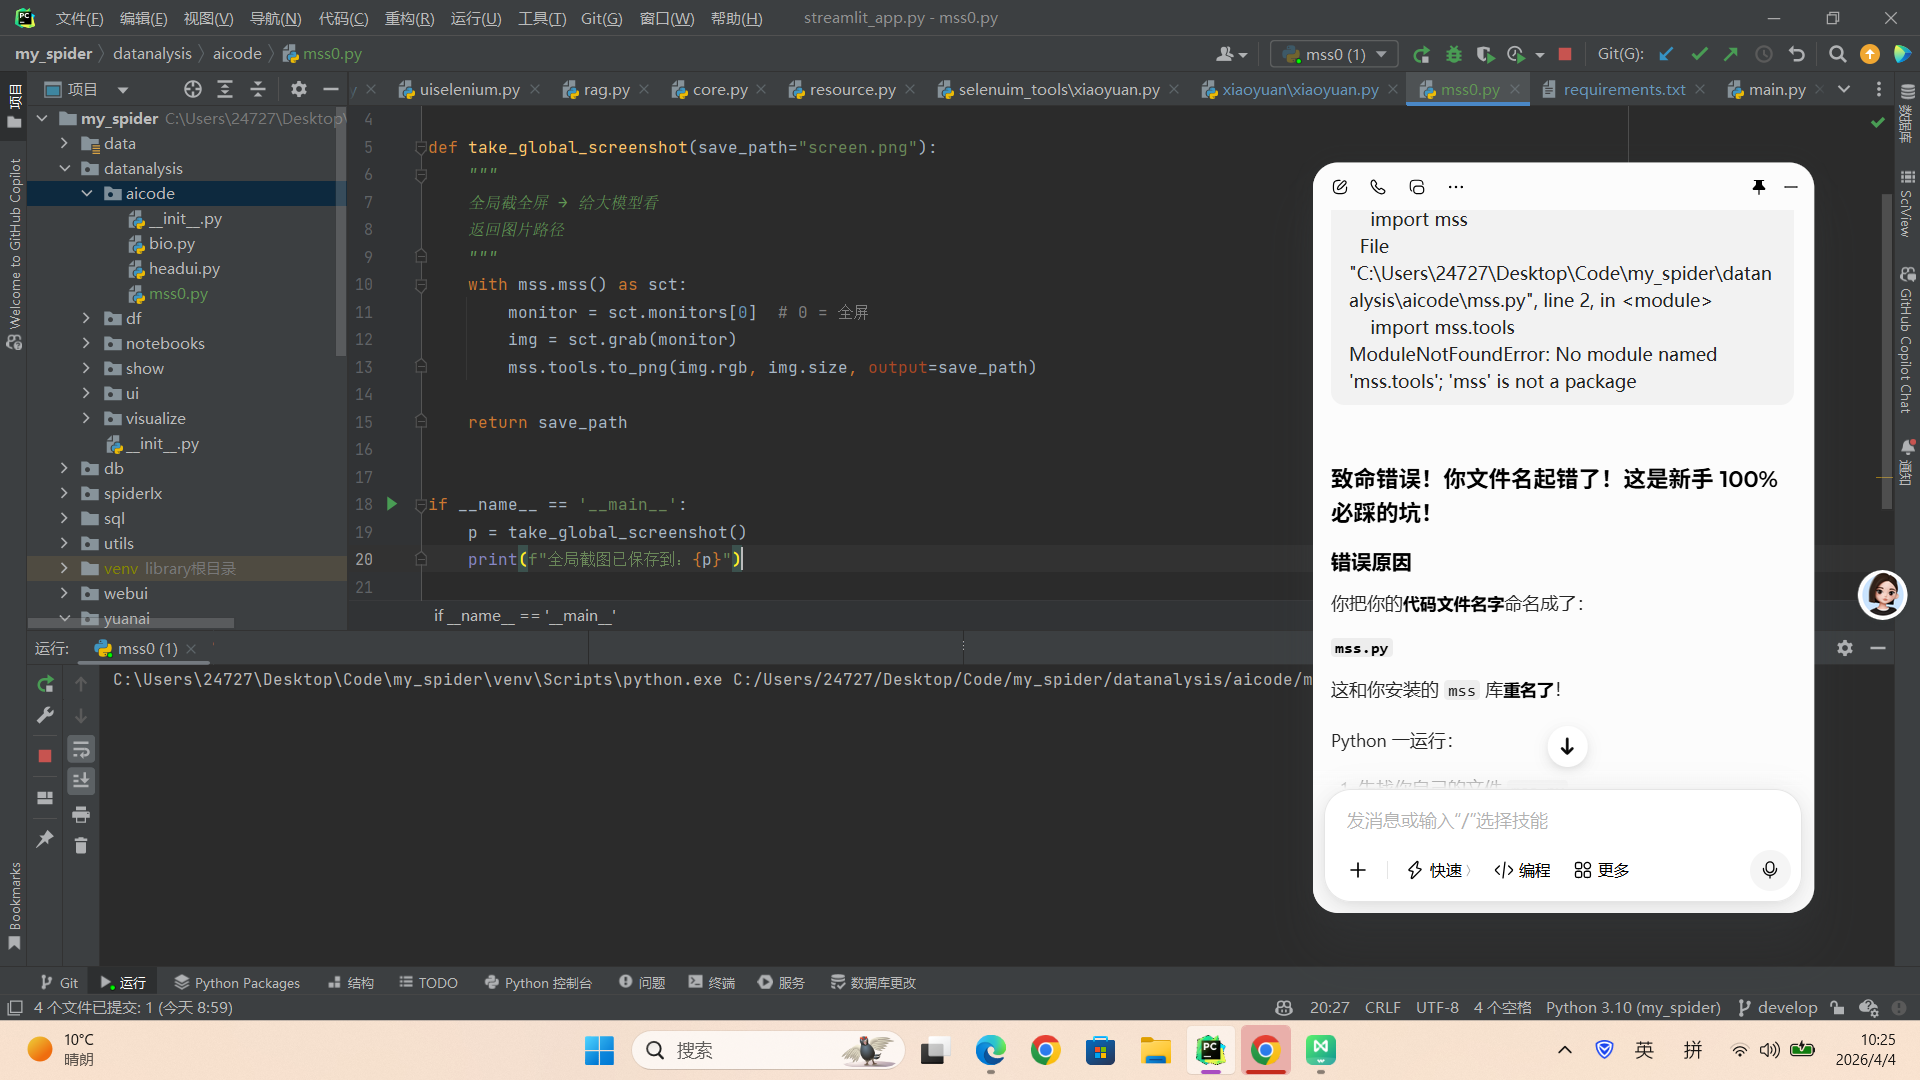
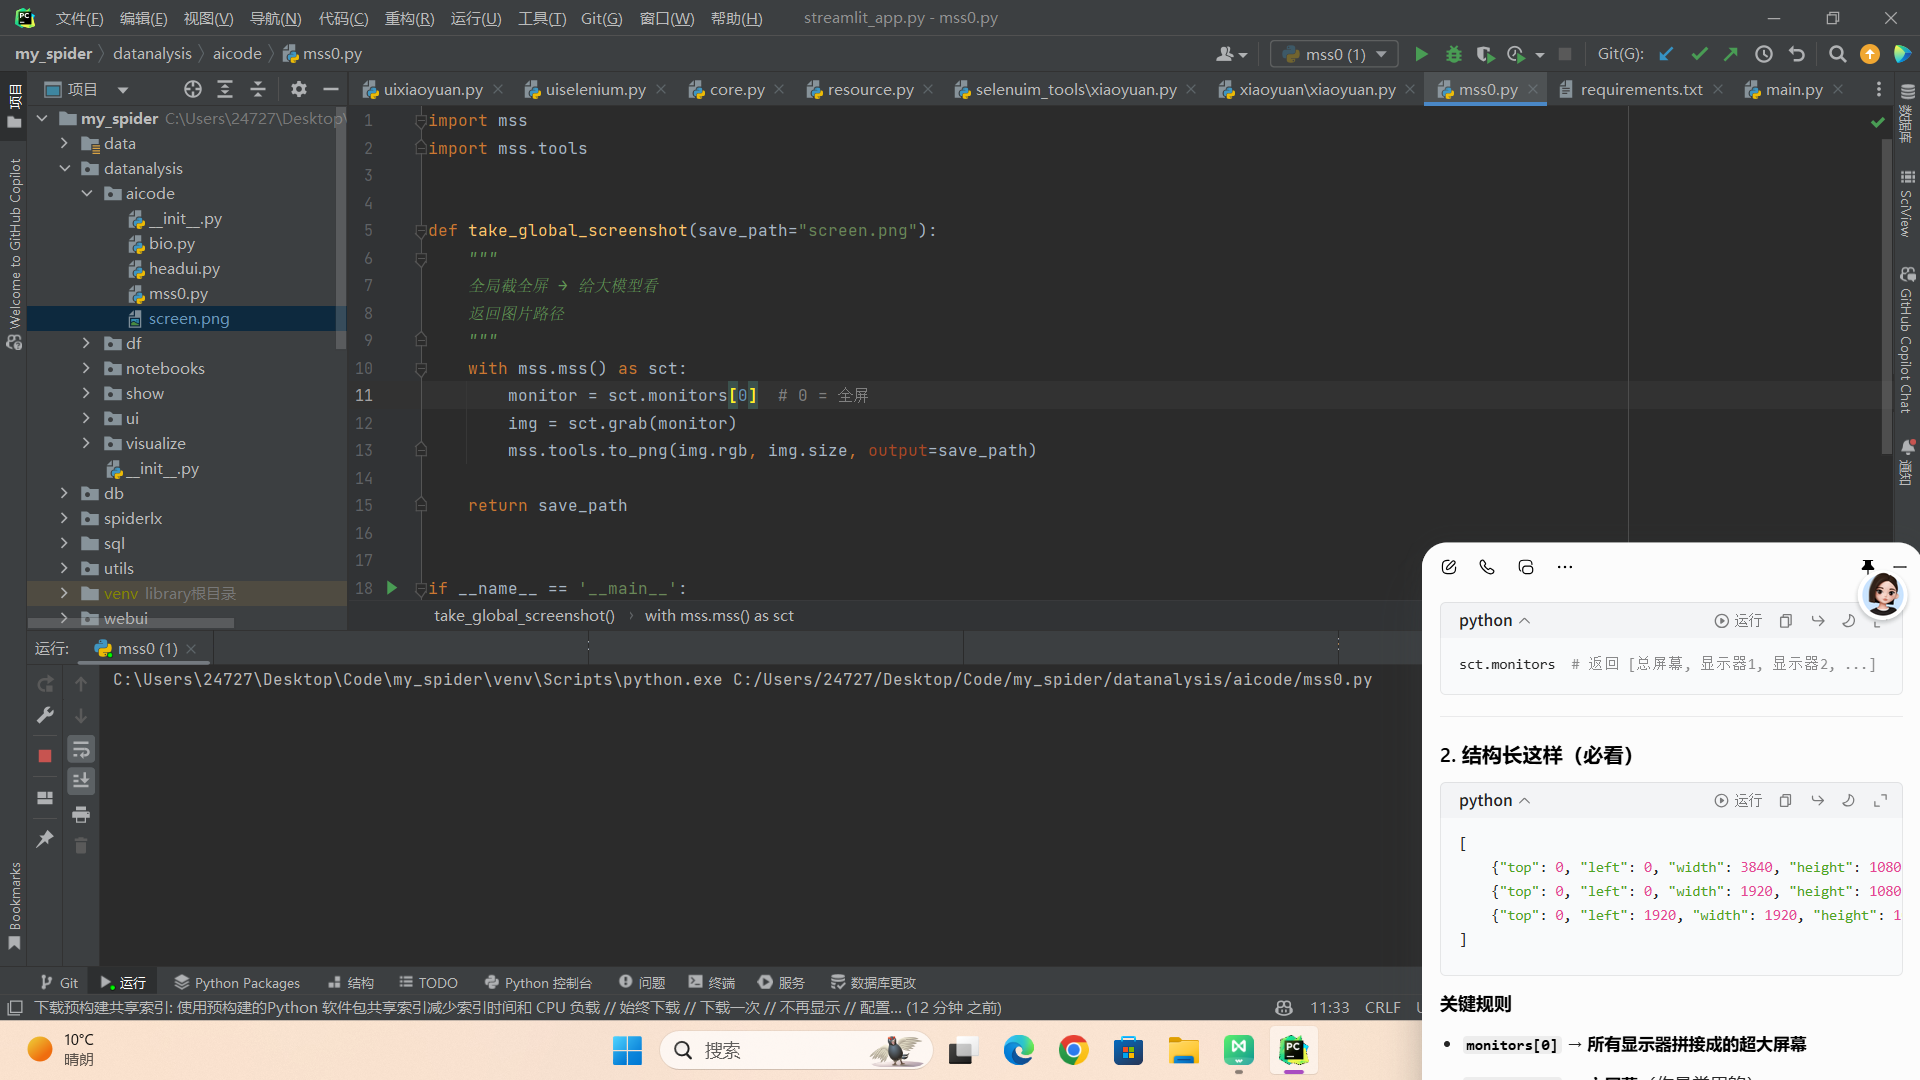
1

diff --git a/spiderlx/auto/web/selenium/main.py b/spiderlx/auto/web/selenium/main.py
@@ -4,7 +4,7 @@ from selenium.webdriver.chrome.service import Service
 from selenium.webdriver.chrome.webdriver import WebDriver
 
 from spiderlx.anti.cookie.selenium import get_cookie, use_cookie
-from spiderlx.core.save.urls import urls   # 替换为下方 urls
+from spiderlx.core.save.urls import urls  # 替换为下方 urls
 from webdrivermanager_cn import ChromeDriverManagerAliMirror
 
 
@@ -15,7 +15,7 @@ class BrowserInitializer:
     职责：仅负责 Chrome 驱动创建、反爬配置、接管模式配置
     不包含任何页面操作与业务逻辑，纯底层工具
     """
-    _instance = None      # 单例实例
+    _instance = None  # 单例实例
 
     def __new__(cls):
         if cls._instance is None:
@@ -79,6 +79,13 @@ class BrowserInitializer:
         except Exception as e:
             print(f"❌ 浏览器启动失败: {str(e)}")
             raise
+
+    def close_driver(self):
+        if self.driver:
+            self.driver.quit()
+            print("🔌 浏览器已关闭")
+            self.driver = None
+            BrowserInitializer._instance = None  # 可选：彻底重置单例实例
 
 
 # ====================== 第二类：页面业务操作类（上层模块）======================
@@ -175,9 +182,7 @@ class MyWebBrowser:
         注意：接管模式下仅断开连接，不会关闭真实浏览器
         """
         if self.driver:
-            self.driver.quit()
-            print("🔌 浏览器连接已关闭")
-            self.driver = None
+            BrowserInitializer().close_driver()
 
 
 # ====================== 主程序入口 ======================
